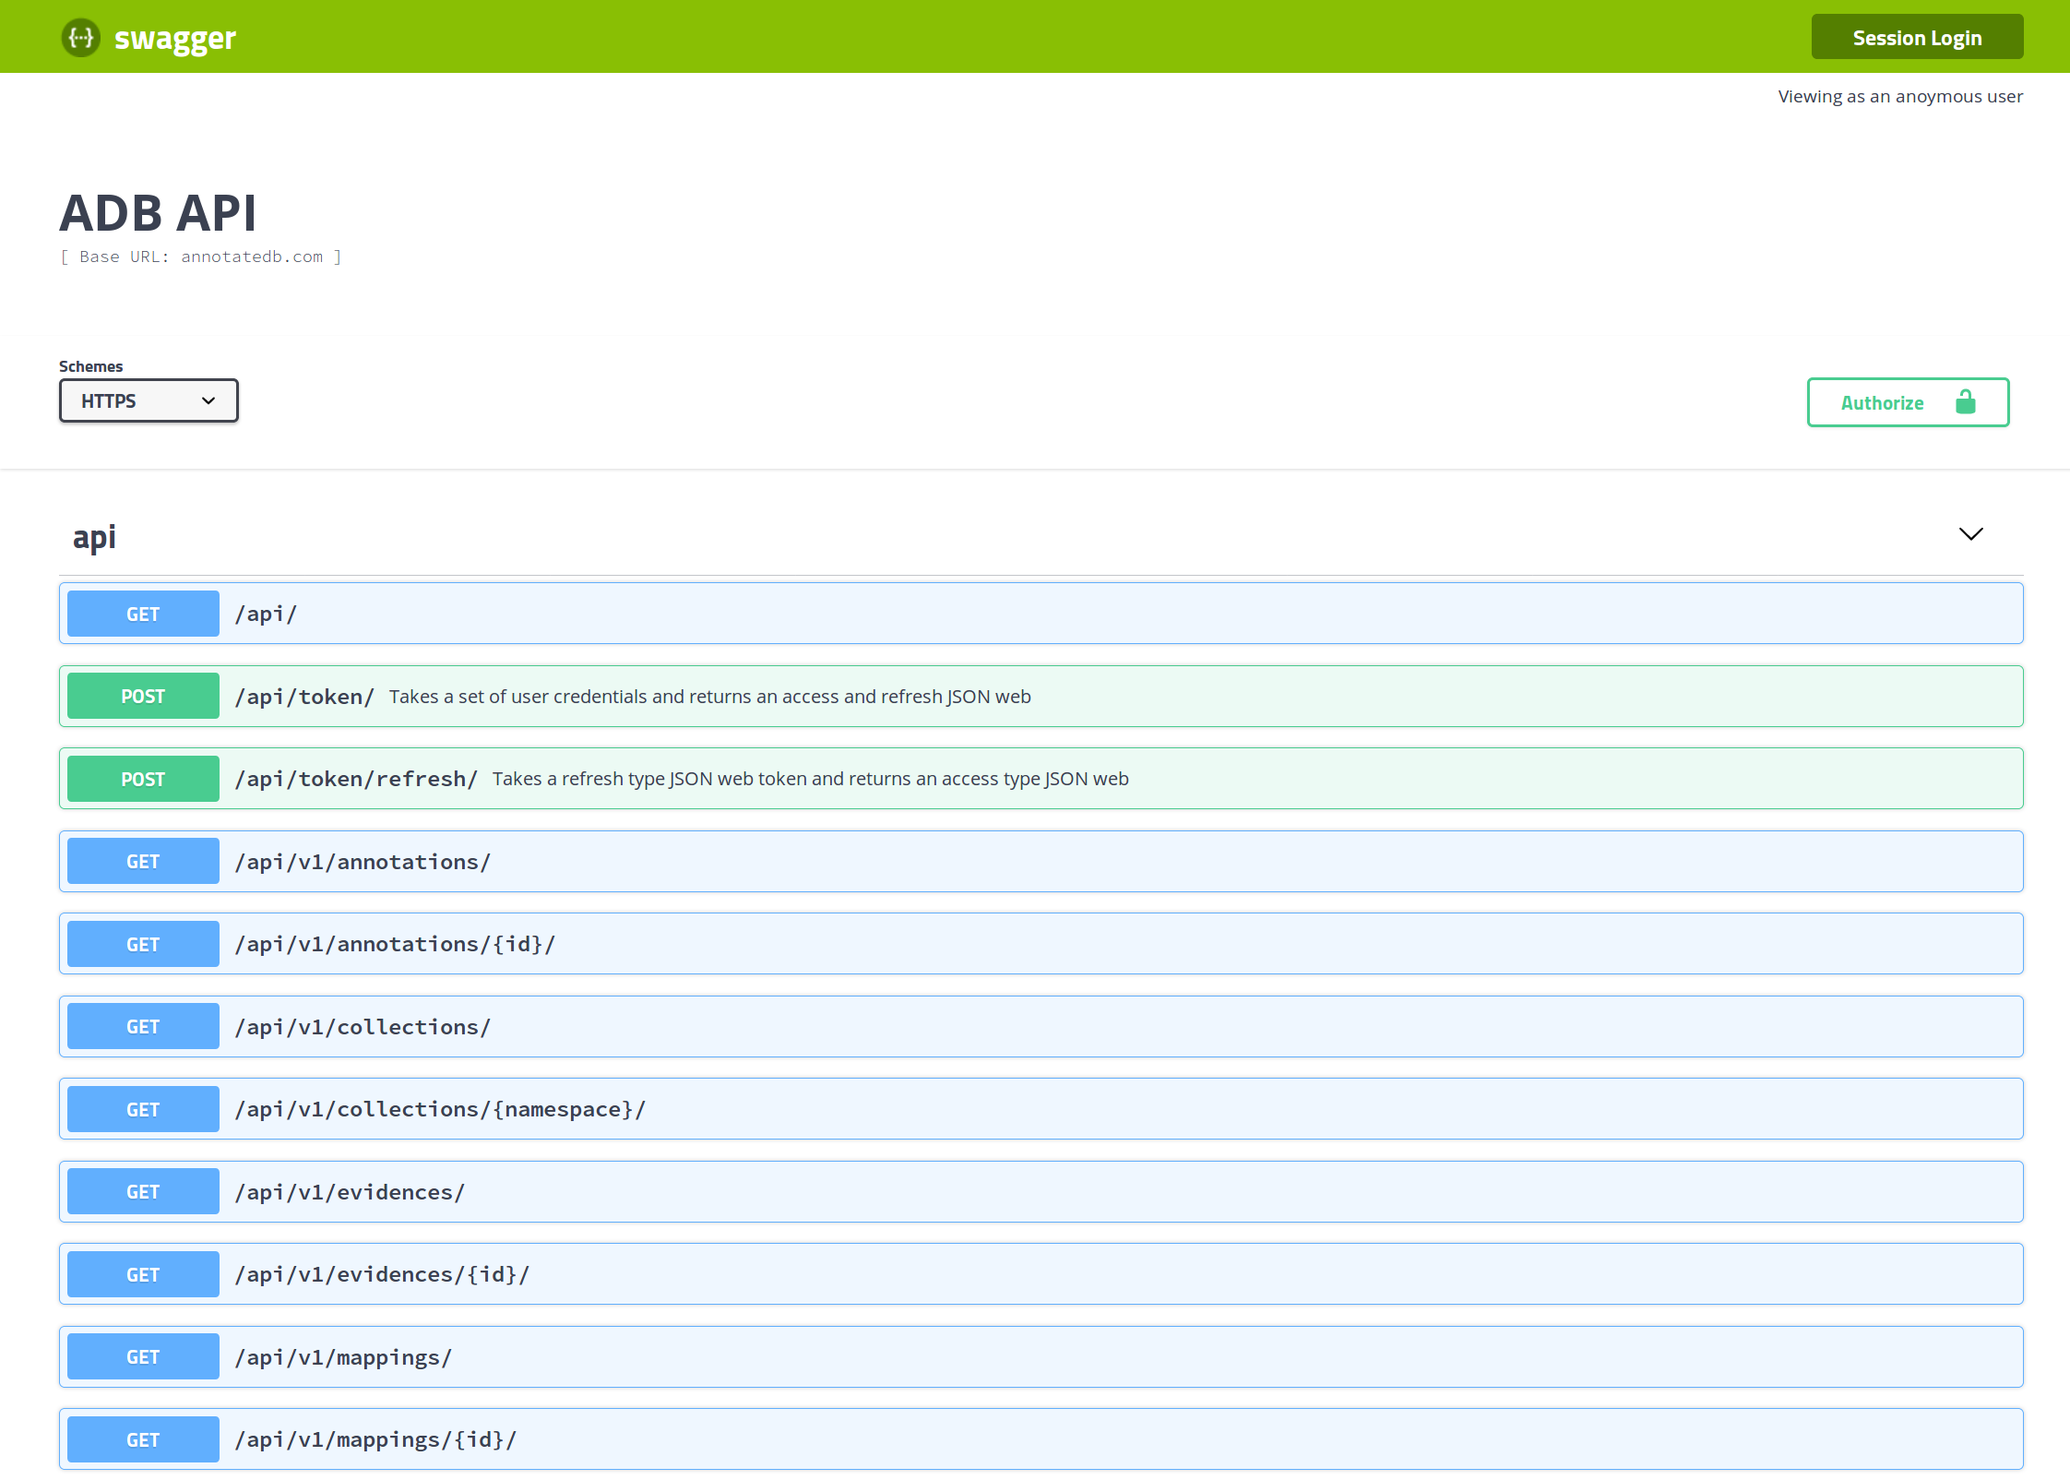
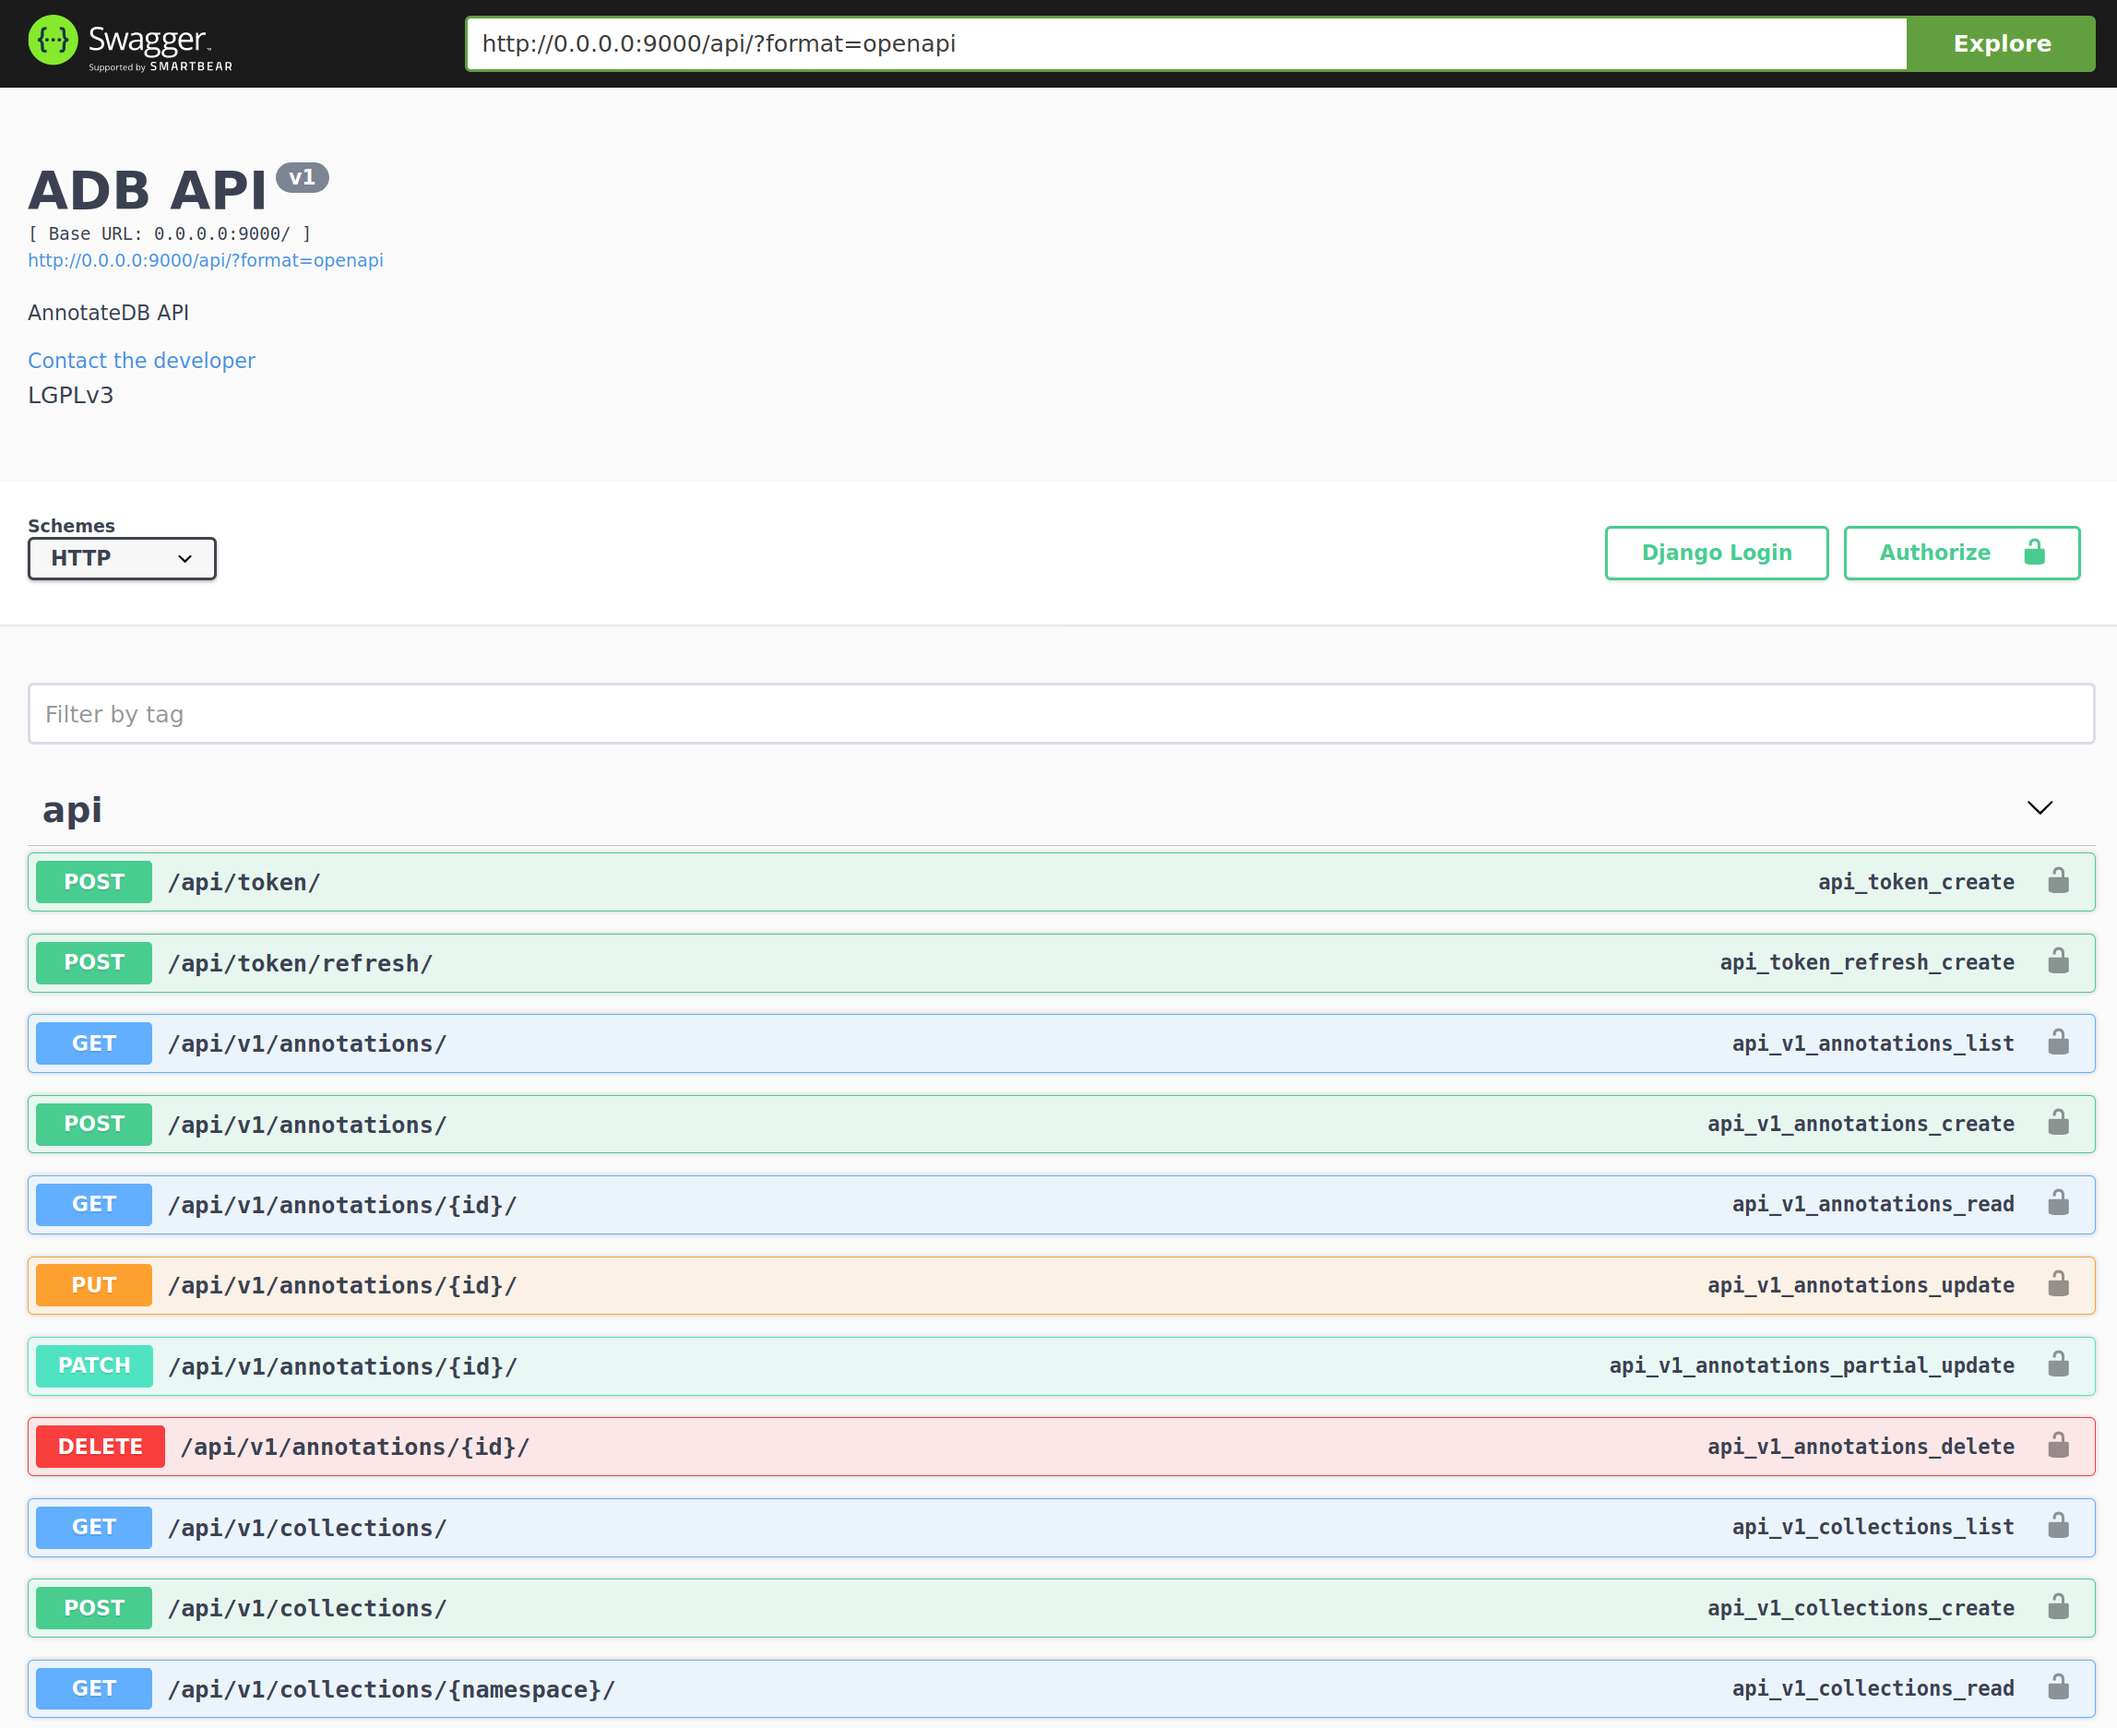
Fix #41, update of dependencies

Changed region(s): [[0.0, 0.0935, 0.9982, 0.9975], [0.0, 0.0, 1.0, 0.0935], [0.7487, 0.2494, 0.967, 0.3429]]

diff --git a/backend/adb_app/urls.py b/backend/adb_app/urls.py
@@ -29,9 +29,25 @@ from rest_framework_simplejwt.views import (
 from .search_indexes import urls as search_index_urls
 
 # swagger REST API
-from rest_framework_swagger.views import get_swagger_view
-schema_view = get_swagger_view(title="ADB API")
+# from rest_framework_swagger.views import get_swagger_view
+# schema_view = get_swagger_view(title="ADB API")
 
+from rest_framework import permissions
+from drf_yasg.views import get_schema_view
+from drf_yasg import openapi
+
+schema_view = get_schema_view(
+   openapi.Info(
+      title="ADB API",
+      default_version='v1',
+      description="AnnotateDB API",
+
+      contact=openapi.Contact(email="konigmatt@googlemail.com"),
+      license=openapi.License(name="LGPLv3"),
+   ),
+   public=True,
+   permission_classes=(permissions.AllowAny,),
+)
 
 urlpatterns = [
     path('admin/', admin.site.urls),
@@ -39,6 +55,9 @@ urlpatterns = [
     url(r'^api/token/$', TokenObtainPairView.as_view(), name='token_obtain_pair'),
     url(r'^api/token/refresh/$', TokenRefreshView.as_view(), name='token_refresh'),
     path(r"api/v1/", include(router.urls)),
-    url(r"api/", schema_view, name="api"),
+    # url(r"api/", schema_view, name="api"),
+    url(r'^api(?P<format>\.json|\.yaml)$', schema_view.without_ui(cache_timeout=0), name='schema-json'),
+    url(r'^api/$', schema_view.with_ui('swagger', cache_timeout=0), name='schema-swagger-ui'),
+    url(r'^redoc/$', schema_view.with_ui('redoc', cache_timeout=0), name='schema-redoc'),
     url(r'^search/', include(search_index_urls)),
 ]

diff --git a/backend/adb_app/adb/urls.py b/backend/adb_app/adb/urls.py
@@ -3,9 +3,9 @@ from rest_framework.routers import DefaultRouter
 from .views import CollectionViewSet, EvidenceViewSet, AnnotationViewSet, MappingViewSet
 
 router = DefaultRouter()
-router.register("collections", CollectionViewSet, base_name="collections")
-router.register("evidences", EvidenceViewSet, base_name="evidences")
-router.register("annotations", AnnotationViewSet, base_name="annotations")
-router.register("mappings", MappingViewSet, base_name="mappings")
+router.register("collections", CollectionViewSet, basename="collections")
+router.register("evidences", EvidenceViewSet, basename="evidences")
+router.register("annotations", AnnotationViewSet, basename="annotations")
+router.register("mappings", MappingViewSet, basename="mappings")
 
 

diff --git a/backend/setup.py b/backend/setup.py
@@ -55,7 +55,6 @@ setup(
         'Intended Audience :: Science/Research',
         'License :: OSI Approved :: GNU Lesser General Public License v3 (LGPLv3)',
         'Operating System :: OS Independent',
-        'Programming Language :: Python :: 3.6',
         'Programming Language :: Python :: 3.7',
         'Programming Language :: Cython',
         'Programming Language :: Python :: Implementation :: CPython',
@@ -68,6 +67,7 @@ setup(
       '': ['requirements.txt'],
     },
     include_package_data=True,
+    python_requires='>=3.7',
     zip_safe=False,
     install_requires=required,
     extras_require={},

diff --git a/backend/adb_app/search_indexes/documents.py b/backend/adb_app/search_indexes/documents.py
@@ -36,14 +36,14 @@ autocomplete_search = analyzer(
 
 
 def string_field(attr, **kwargs):
-    return fields.StringField(
+    return fields.TextField(
         attr=attr,
         fielddata=True,
         analyzer=autocomplete,
         search_analyzer=autocomplete_search,
         fields={'raw': fields.KeywordField()},
         **kwargs
-        )
+    )
 
 
 class ObjectField(DEDField, Object):

diff --git a/backend/adb_app/settings.py b/backend/adb_app/settings.py
@@ -55,7 +55,7 @@ INSTALLED_APPS = [
     # rest endpoints and elasticsearch
     "rest_framework",  # utilities for rest apis
     "django_filters",  # for filtering rest endpoints
-    "rest_framework_swagger",
+    "drf_yasg",
     "corsheaders",
     'django_elasticsearch_dsl',
     'django_elasticsearch_dsl_drf',

diff --git a/README.md b/README.md
@@ -69,7 +69,6 @@ This creates the following services
 * `adb_backend` http://localhost:5434/ - django backend
 * `adb_frontend` http://localhost:8090/ - vue.js frontend
 * `adb_elasticsearch` http://localhost:9124/ - elasticsearch instance
-* `adb kibana` http://localhost:5610/ - elasticsearch visualization
 
 In later releases the installation will be simplified, 
 i.e., prebuild docker containers will be available from dockerhub (see [#32](https://github.com/matthiaskoenig/annotatedb/issues/32)).
@@ -77,7 +76,7 @@ i.e., prebuild docker containers will be available from dockerhub (see [#32](htt
 ## REST webservice
 [[^]](https://github.com/matthiaskoenig/annotatedb#-annotatedb) `AnnotateDB` provides `REST` endpoints for querying the database at https://annotatedb.com/api/v1.
 
-<a href="https://annotatedb.com/api/v1"><img alt="AnnotateDB logo" src="./docs/images/rest.png" width="800" /></a>
+<a href="https://annotatedb.com/api/v1"><img alt="AnnotateDB API" src="./docs/images/rest.png" width="800" /></a>
 
 Some examples
 * to query the `collections`use: [`https://annotatedb.com/api/v1/collections/?format=json`](https://annotatedb.com/api/v1/collections/?format=json).
@@ -92,11 +91,11 @@ This will return the information on the `collection`, in this example for `sbo`
   "miriam":true,
   "name":"Systems Biology Ontology",
   "idpattern":"^SBO:\\d{7}$",
-  "urlpattern":"https://identifiers.org/sbo/{$id}",
+  "urlpattern":"https://identifiers.org/sbo/{$id}"
 }
 ```
 Currently only basic `REST` endpoints are available. With the introduction of the `elasticsearch` 
-endpoints in [`v0.2.0`](https://github.com/matthiaskoenig/annotatedb/milestone/3) the REST based search will largely improve.
+endpoints in [`v0.3.0`](https://github.com/matthiaskoenig/annotatedb/milestone/3) the REST based search will largely improve.
 For now users should directly interact with the postgres database to interact
 with the mappings (see information below).
 
@@ -156,6 +155,11 @@ with information used from the latest [database release](https://github.com/SBRG
 ## Release notes
 [[^]](https://github.com/matthiaskoenig/annotatedb#-annotatedb) This section provides an overview of major changes and releases
 
+### 0.2.0
+* security fixes 
+* django update (>3.0), elasticsearch update (7.7.1), postgres update (12.3), 
+* replacing deprecated `django-rest-swagger` with `drf-yasg`
+
 ### 0.1.1
 * bug fixes admin interface 
 * bug fixes frontend server
@@ -180,3 +184,5 @@ with information used from the latest [database release](https://github.com/SBRG
 * Thomas Zajac
 
 for their input and discussions.
+
+&copy; 2019-2020 Matthias König & Jan Grzegorzewski

diff --git a/backend/README.md b/backend/README.md
@@ -1,3 +1,3 @@
-# AnnotateDB Backend (`django`)
- 
-&copy; 2019 Matthias König & Jan Grzegorzewski
+# AnnotateDB django backend
+
+&copy; 2019-2020 Matthias König & Jan Grzegorzewski
